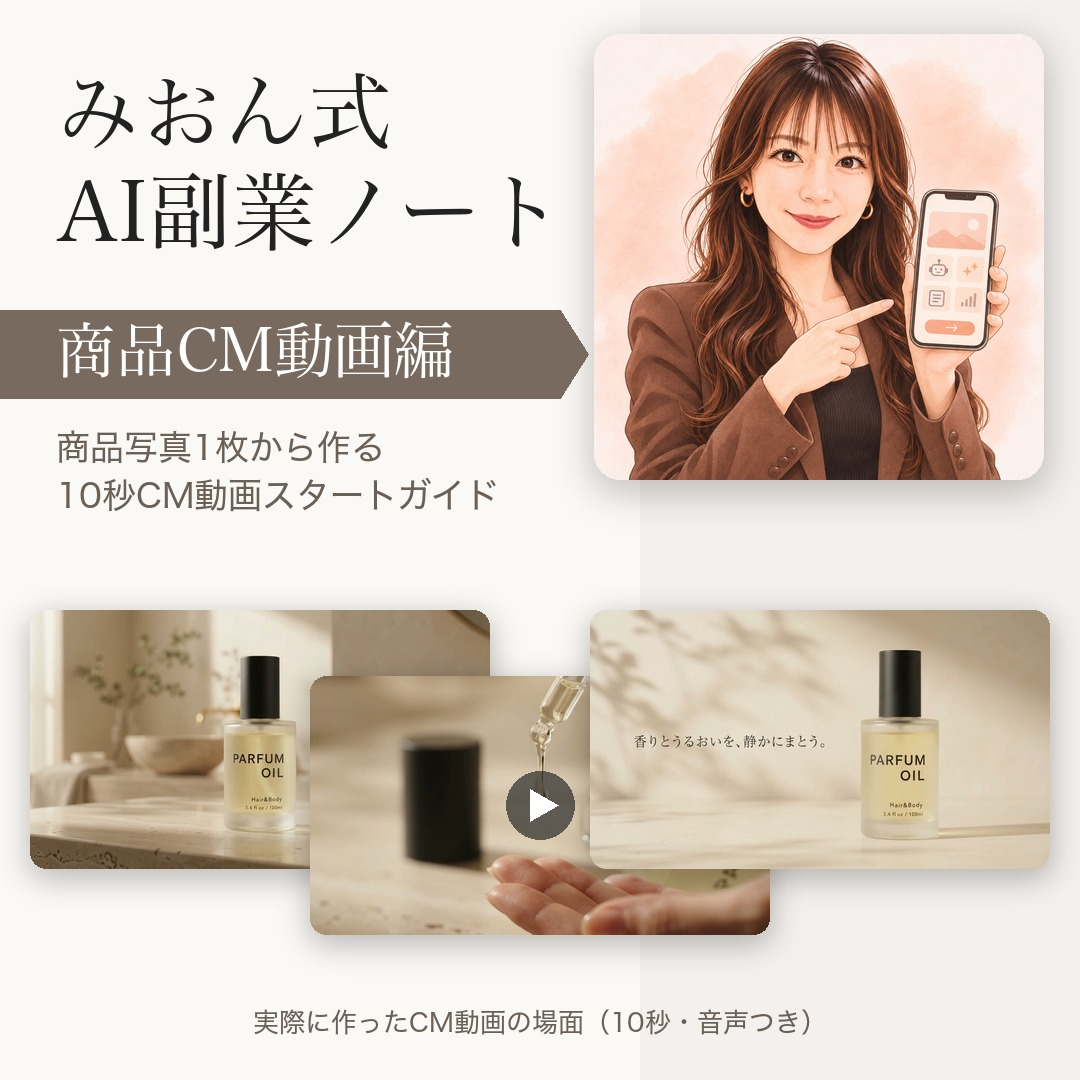
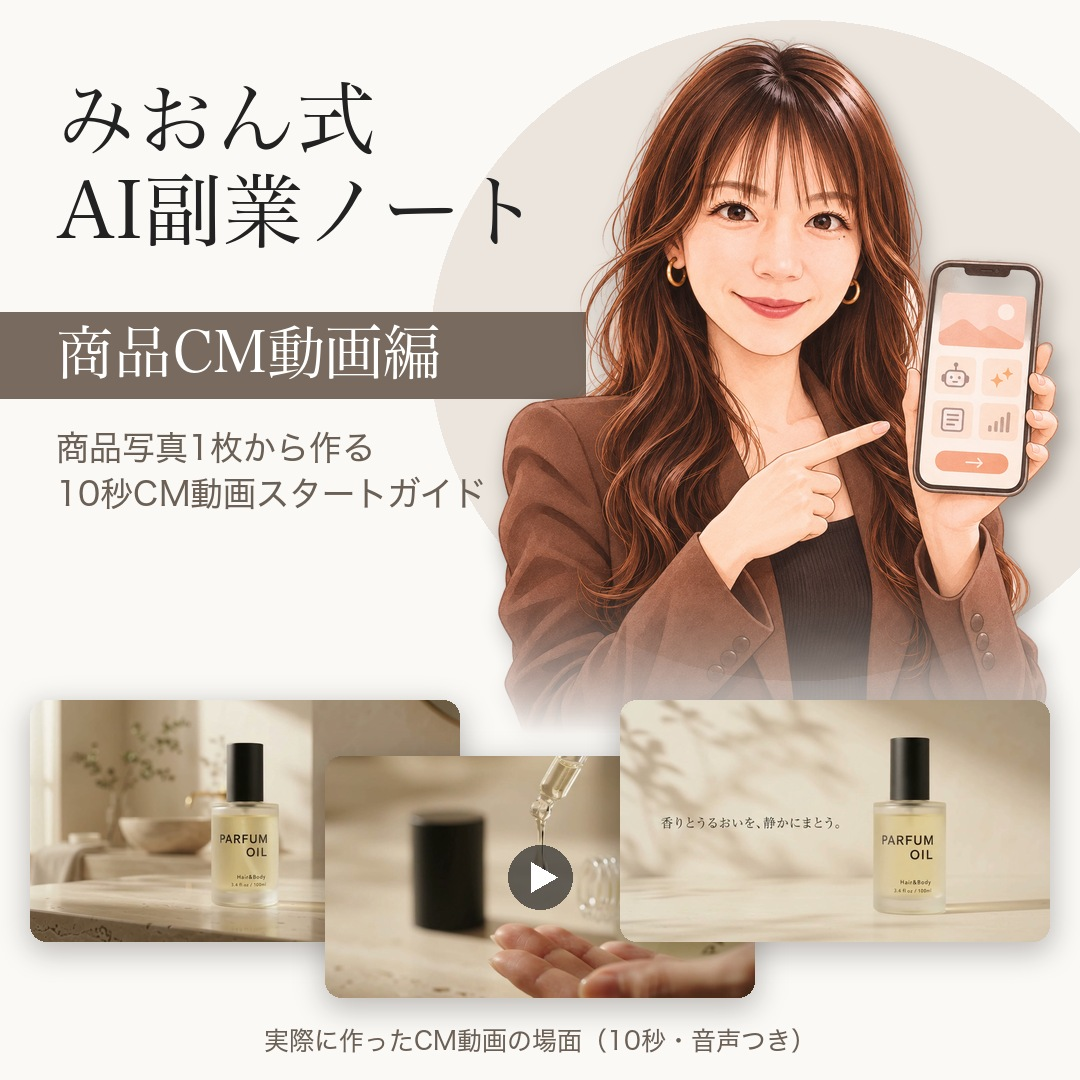
🕒 2026-11-12 23:08:20
バナーの本人イラストを背景切り抜きにして、文字・動画の場面と重ねる構図に変更

diff --git a/docs/requirements.md b/docs/requirements.md
@@ -52,4 +52,4 @@
 - 収入・仕事の獲得を約束しない（金額は載せない）。最終CTAに「収入や収益が得られることを保証するものではありません」
 - 「確認していません」等の未確認の開示は読者向けに書かない（内部記録は docs/SCOPE_PROGRESS.md）
 - 人物はバナーの本人イラスト（2026-11-12にユーザーが作成した新イラスト・スマホのポーズ）のみ。絵コンテ内の人物はAI生成の作例であり本人ではない
-- バナーは、本人イラスト・文字・完成CMの実フレームを合成して作る（AI生成で商品のラベル文字が崩れたため）
+- バナーは、本人イラスト（背景を切り抜いたもの）・文字・完成CMの実フレームを重ねて合成して作る。人物は背景つきのまま貼らない（周りと合わないため）。AI生成は商品のラベル文字が崩れたため使わない
